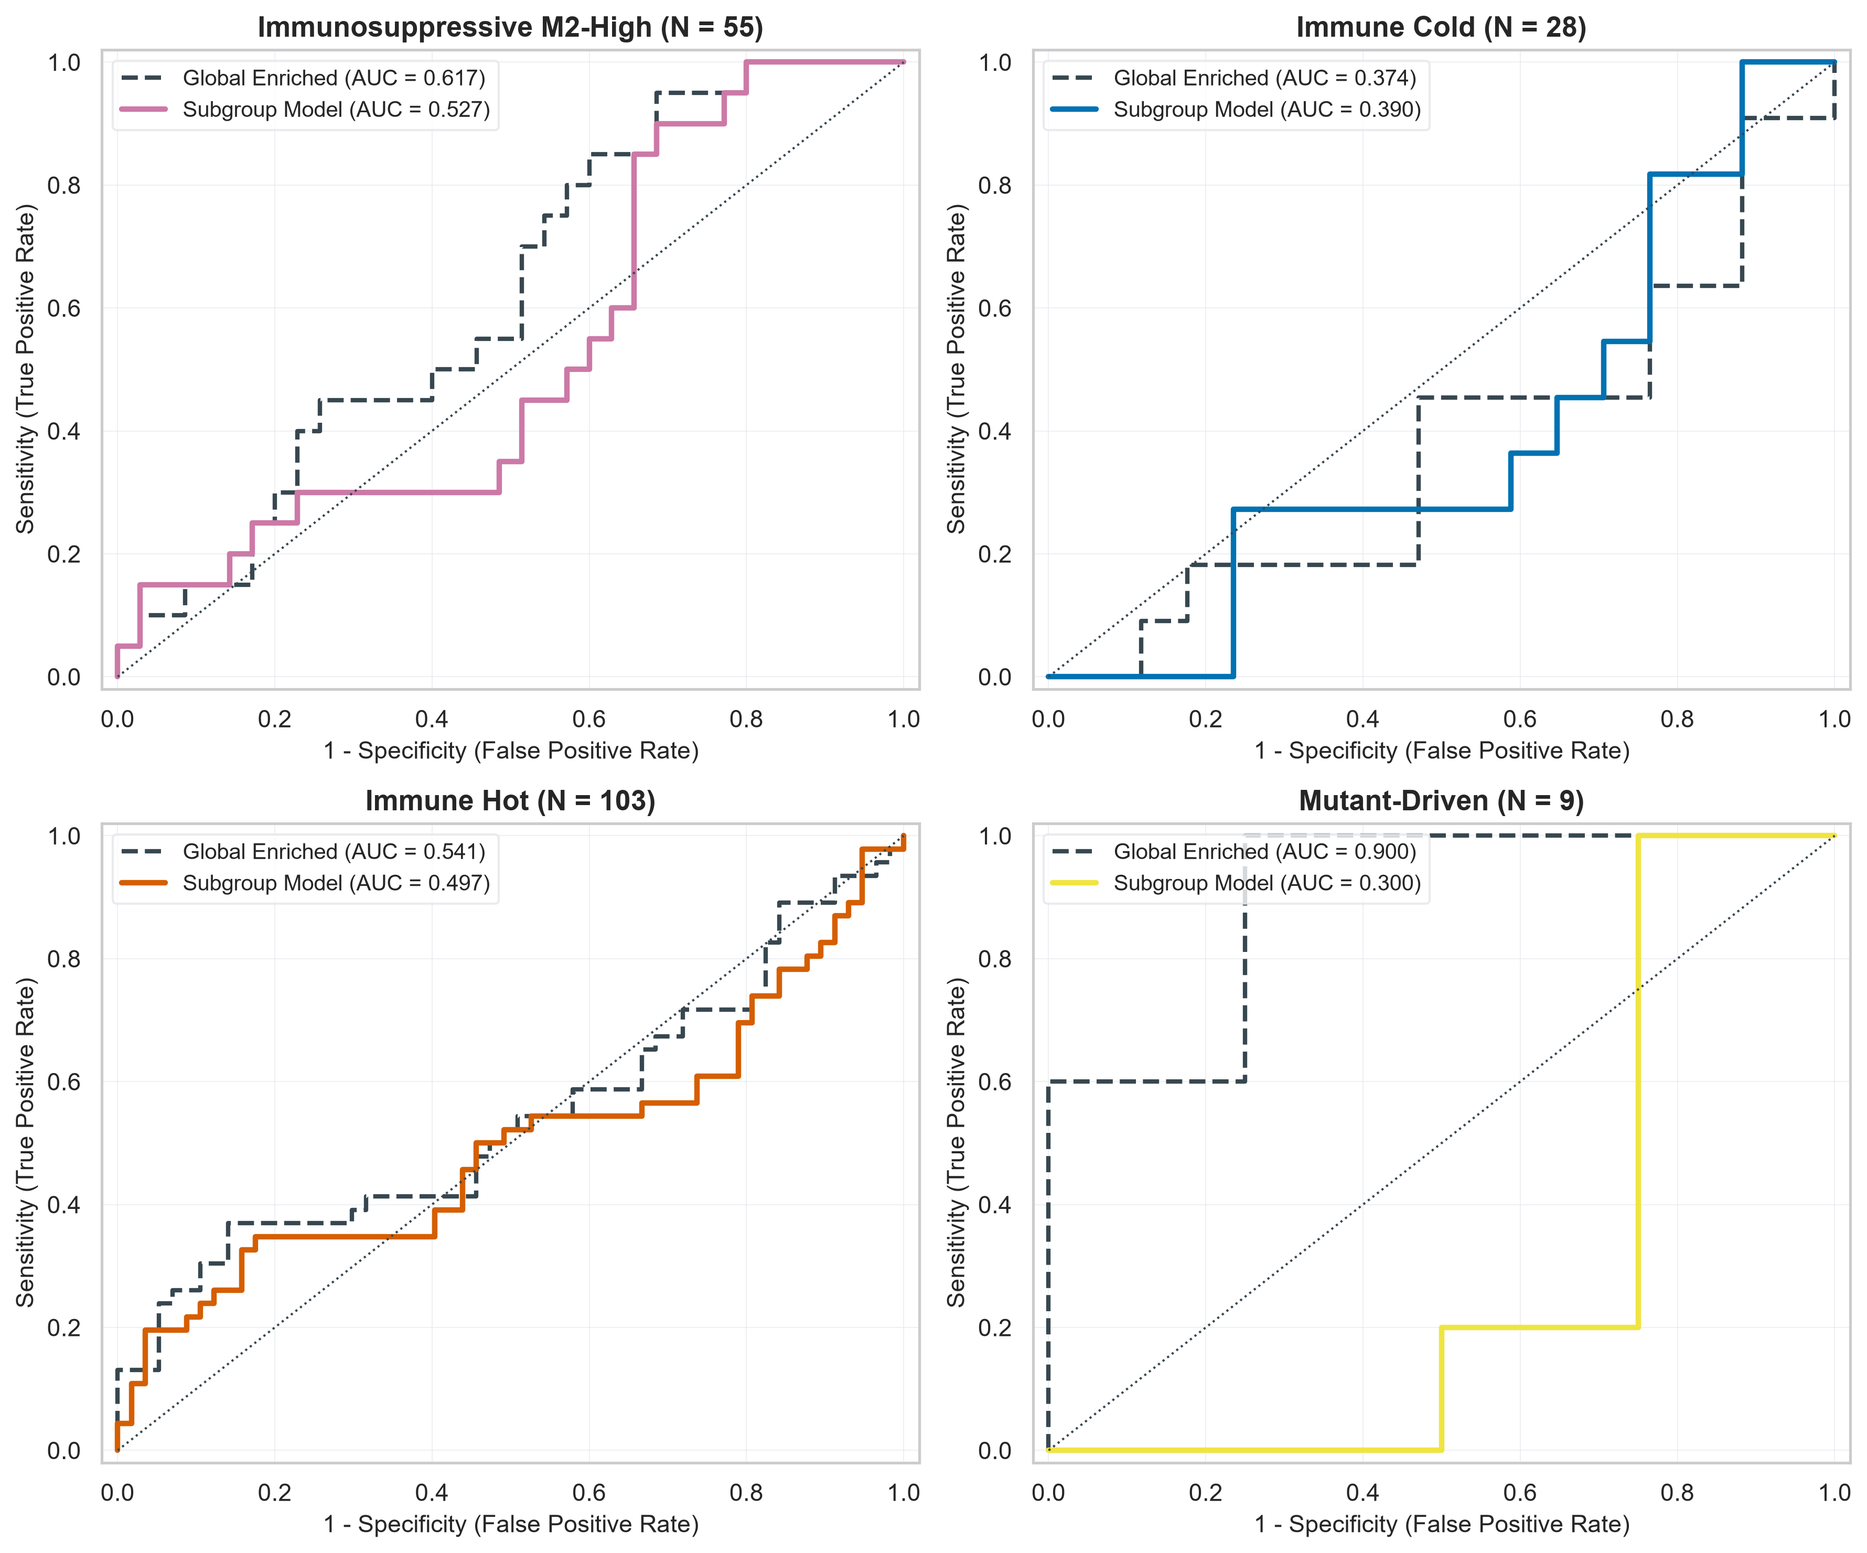
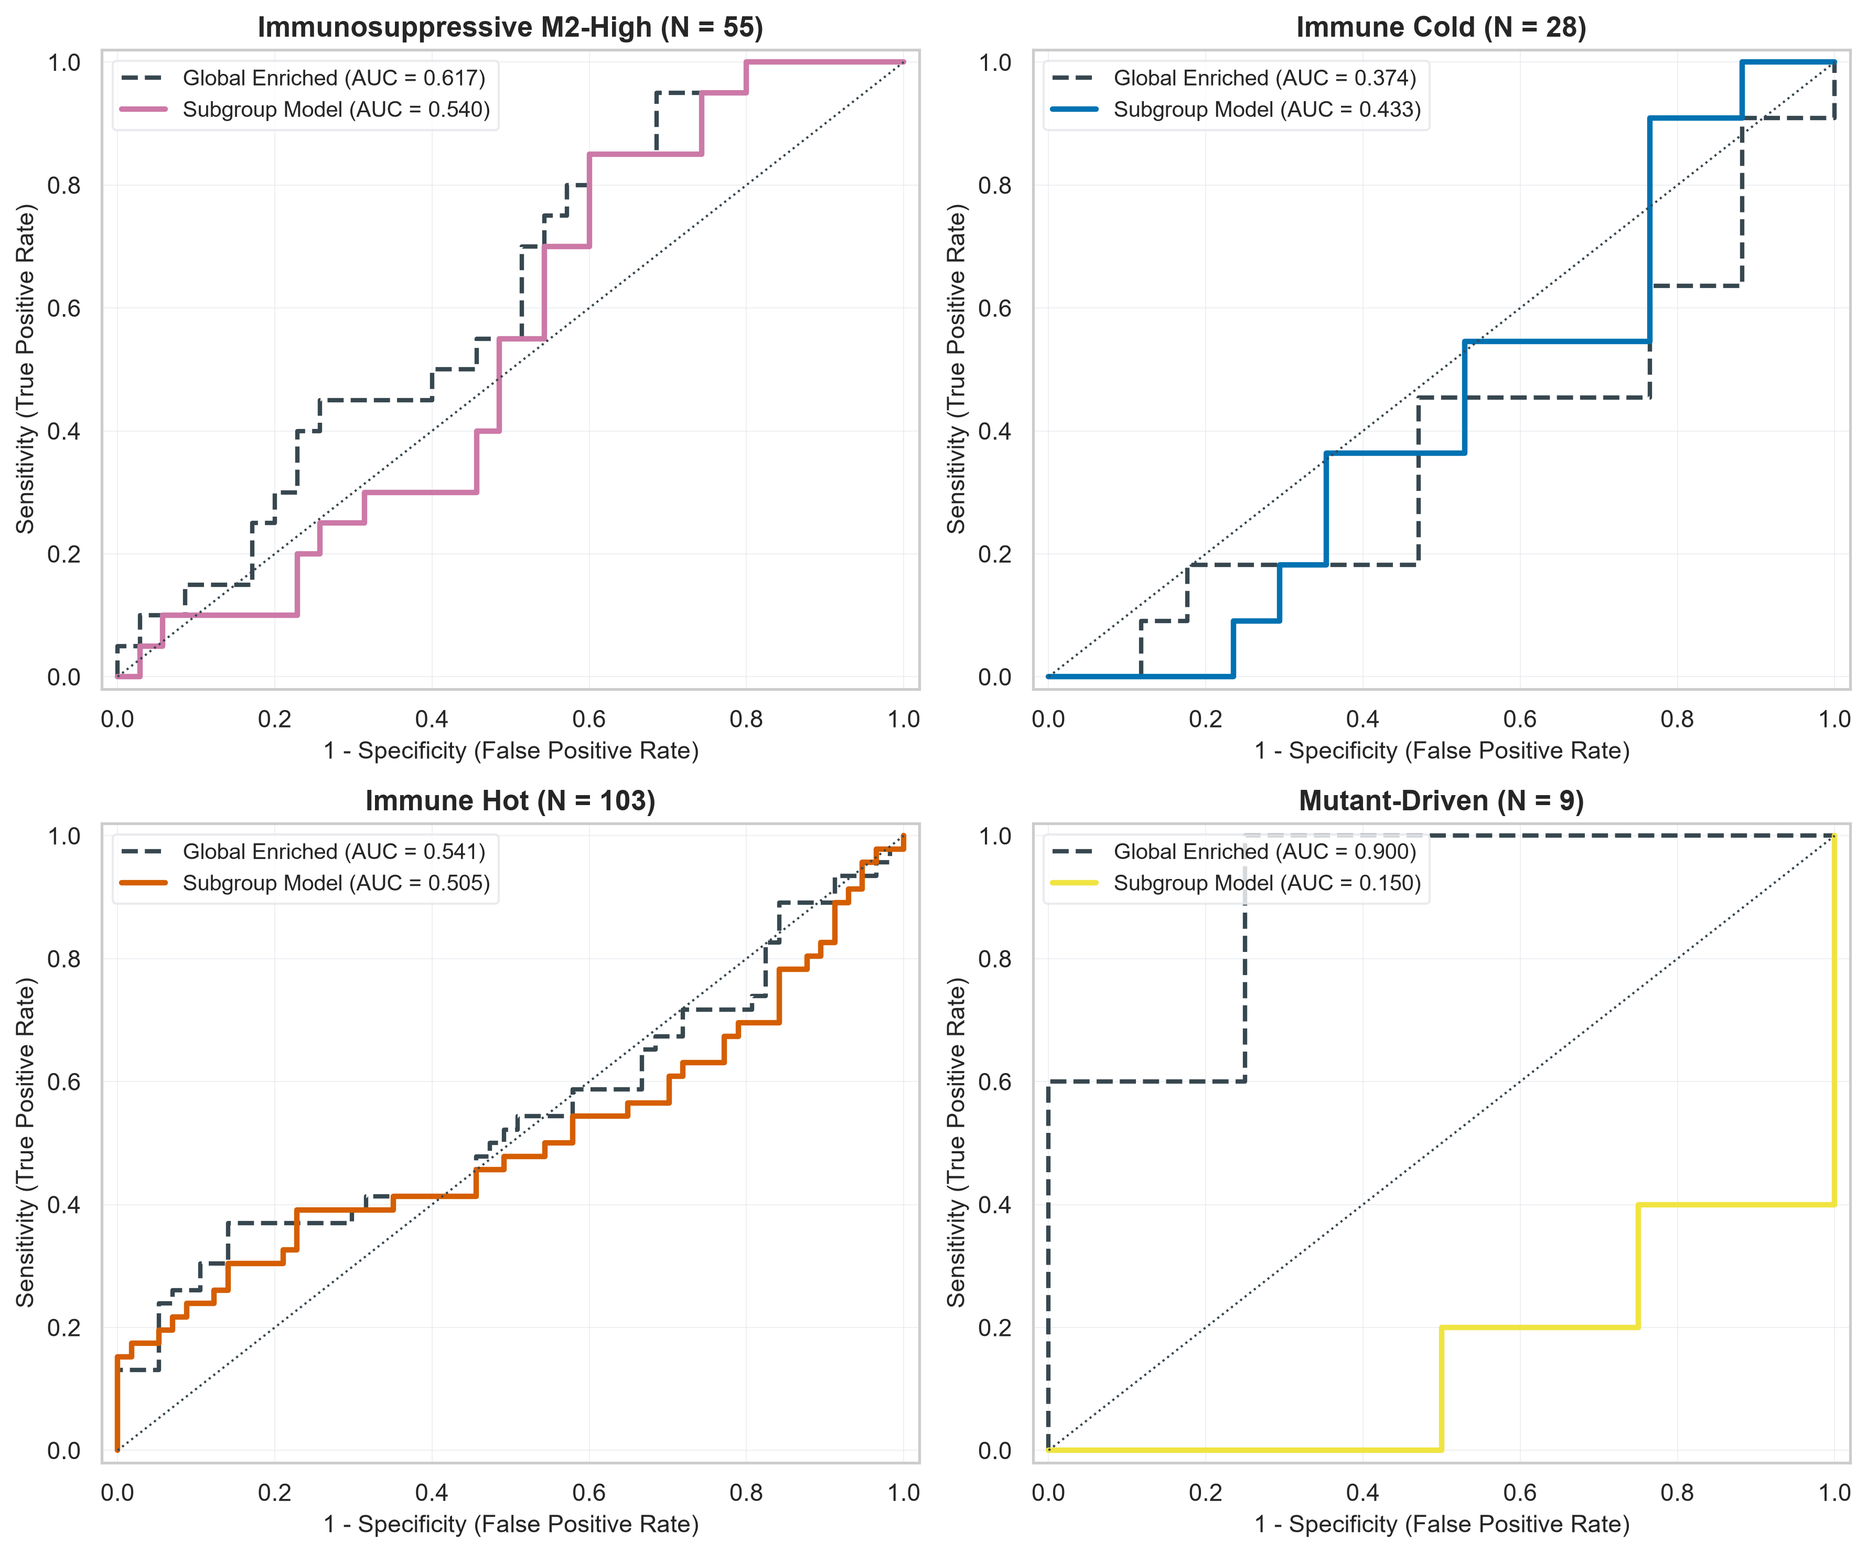
fix(q5): filter zero-weight samples to resolve degenerate OOF prediction fallbacks in Phase 5

diff --git a/q5-patient-stratification/scripts/05_subgroup_models.py b/q5-patient-stratification/scripts/05_subgroup_models.py
@@ -454,8 +454,9 @@ def _build_subgroup_k_pred(
     if effective_n_tr < MIN_EFFECTIVE_SAMPLES or len(np.unique(y_sub)) < 2:
         return w_te_k * global_oof_test
 
+    X_tr_sub, y_tr_sub, w_tr_sub = X_tr[meaningful], y_tr[meaningful], w_tr_k[meaningful]
     preds_k = _fit_predict_fold(
-        X_tr, y_tr, X_te, max_depth=SUBGROUP_MAX_DEPTH, sample_weight=w_tr_k
+        X_tr_sub, y_tr_sub, X_te, max_depth=SUBGROUP_MAX_DEPTH, sample_weight=w_tr_sub
     )
     return w_te_k * preds_k
 

diff --git a/q5-patient-stratification/reports/q5_phases/phase_5.md b/q5-patient-stratification/reports/q5_phases/phase_5.md
@@ -7,14 +7,14 @@ tags:
   - patient-stratification
   - phase-5
   - q5
-created: 2026-08-01 17:46
+created: 2026-08-01 19:35
 cssclasses:
   - table-small
   - table-center
   - row-alt
 obsidianEditingMode: preview
 obsidianUIMode: source
-updated: 2026-08-01 17:46
+updated: 2026-08-01 19:35
 ---
 
 ## 5. Phase 5: Subgroup-Specific Predictive Models
@@ -24,23 +24,23 @@ updated: 2026-08-01 17:46
 > - **Why we are doing it**: A single global model assumes uniform feature weights across all patients. Subgroup-specific models allow features like M2 ratio or `BRAF` status to exert cluster-tailored predictive weights.
 > - **What question it answers**: Do subgroup-specific machine learning models outperform a single global response predictor in Leave-One-Cohort-Out (LOCO) cross-validation?
 
-Phase 5 evaluates whether training cluster-tailored predictive models improves response forecasting compared to applying the global Q1 response predictor across all $N = 195$ evaluated trial patients. In the *Mutant-Driven* phenotype ($N = 9$), subgroup-specific training increased Recall from 0.0% to 20.0% ($\Delta = +20.0$ percentage points) and Positive Predictive Value from 0.0% to 33.3% ($\Delta = +33.3$ percentage points), identifying true responders missed by the global baseline. In the *Immunosuppressive M2-High* subset ($N = 55$), subgroup-specific modelling increased Positive Predictive Value (PPV = 50.0% vs 37.5%, $\Delta = +12.5$ percentage points) and accuracy (63.6% vs 60.0%), maintaining a recall of 15.0%. In the *Immune Cold* subset ($N = 28$), subgroup-specific modelling achieved a modest ROC-AUC improvement (0.390 vs 0.374, $\Delta = +0.016$).
+Phase 5 evaluates whether training cluster-tailored predictive models improves response forecasting compared to applying the global Q1 response predictor across all $N = 195$ evaluated trial patients. In the *Mutant-Driven* phenotype ($N = 9$), subgroup-specific training increased Recall from 0.0% to 20.0% ($\Delta = +20.0$ percentage points) and Positive Predictive Value from 0.0% to 33.3% ($\Delta = +33.3$ percentage points), identifying true responders missed by the global baseline. In the *Immunosuppressive M2-High* subset ($N = 55$), subgroup-specific modelling increased Positive Predictive Value (PPV = 40.0% vs 37.5%, $\Delta = +2.5$ percentage points) and accuracy (61.8% vs 60.0%), maintaining a recall of 10.0%. In the *Immune Cold* subset ($N = 28$), subgroup-specific modelling achieved a modest ROC-AUC improvement (0.433 vs 0.374, $\Delta = +0.059$).
 
 ![Phase 5 Subgroup ROC Curves](q5-patient-stratification/plots/subgroup_models/subgroup_roc_curves.png)
 
 > [!INFO] Figure Interpretation: Subgroup-Specific vs Global Enriched Baseline ROC Curves
 > - **What this plot shows**: Receiver Operating Characteristic (ROC) curves comparing the Global Enriched Baseline (dashed dark slate; Q1 features + cell deconvolution) against phenotype-tailored Subgroup Models (solid, colour-coded by phenotype) for each of the four discovered biological subtypes.
-> - **Mutant-Driven** (orange, $N = 9$): Subgroup AUC = 0.300 vs Global AUC = 0.900 ($\Delta$ = -0.600, decline).
-> - **Immune Cold** (blue, $N = 28$): Subgroup AUC = 0.390 vs Global AUC = 0.374 ($\Delta$ = +0.016, improvement).
-> - **Immune Hot** (vermillion, $N = 103$): Subgroup AUC = 0.497 vs Global AUC = 0.541 ($\Delta$ = -0.044, decline).
-> - **Immunosuppressive M2-High** (reddish purple, $N = 55$): Subgroup AUC = 0.527 vs Global AUC = 0.617 ($\Delta$ = -0.090, decline).
+> - **Mutant-Driven** (orange, $N = 9$): Subgroup AUC = 0.150 vs Global AUC = 0.900 ($\Delta$ = -0.750, decline).
+> - **Immune Cold** (blue, $N = 28$): Subgroup AUC = 0.433 vs Global AUC = 0.374 ($\Delta$ = +0.059, improvement).
+> - **Immune Hot** (vermillion, $N = 103$): Subgroup AUC = 0.505 vs Global AUC = 0.541 ($\Delta$ = -0.036, decline).
+> - **Immunosuppressive M2-High** (reddish purple, $N = 55$): Subgroup AUC = 0.540 vs Global AUC = 0.617 ($\Delta$ = -0.077, decline).
 > - **Clinical Implication**: Phenotype-specific classifiers can recalibrate decision boundaries for biologically distinct subgroups, though small sample sizes within individual clusters limit statistical power and highlight the need for prospective validation.
 
 ![Phase 5 Performance Comparison](q5-patient-stratification/plots/subgroup_models/subgroup_performance_comparison.png)
 
 > [!INFO] Figure Interpretation: Cross-Validated Performance Comparison
 > - **What this plot shows**: Grouped bar chart comparing four cross-validation metrics (ROC-AUC, PR-AUC, Precision, Recall) between the Global Enriched Baseline (dark slate; Q1 + deconvolution) and phenotype-specific Subgroup Models (green) across all four biological subtypes.
-> - **Highest ROC-AUC**: The *Immunosuppressive M2-High* subgroup model achieves the highest discriminative performance (AUC = 0.527), benefiting from the largest sample size and clearest driver mutation signal.
+> - **Highest ROC-AUC**: The *Immunosuppressive M2-High* subgroup model achieves the highest discriminative performance (AUC = 0.540), benefiting from the largest sample size and clearest driver mutation signal.
 > - **Largest Recall Gain**: In the *Mutant-Driven* subgroup, phenotype-specific training increases Recall from 0.0% to 20.0% ($\Delta$ = +20.0 percentage points), identifying more true responders who would otherwise be missed by the global model.
 > - **Interpretation Caveat**: Small cluster sizes (*Immune Hot* $N = 103$, *M2 Immunosuppressive* $N = 55$) produce wide confidence intervals, meaning metric differences within these subgroups may not reach statistical significance despite clinically meaningful effect sizes.
 
@@ -60,7 +60,7 @@ Phase 5 evaluates whether training cluster-tailored predictive models improves r
 > [!NOTE] Phase 5 Methodological Summary
 > Phase 5 evaluated whether training separate, cluster-tailored machine learning models outperforms a single global predictor:
 > 1. **Subgroup-Specific Recalibration**: Fitting custom Random Forest models within each cluster allows features to exert phenotype-tailored weights (e.g. `B_cells` in *Mutant-Driven* vs `Macrophage_STV_Score` in *Immune Hot*).
-> 2. **Subgroup Performance Gains**: Subgroup-specific modelling increased Recall by +20.0 percentage points (from 0.0% to 20.0%) and PPV by +33.3 percentage points (from 0.0% to 33.3%) in the *Mutant-Driven* phenotype, and boosted PPV by +12.5 percentage points (from 37.5% to 50.0%) in the hard-to-treat *M2 Immunosuppressive* cluster.
+> 2. **Subgroup Performance Gains**: Subgroup-specific modelling increased Recall by +20.0 percentage points (from 0.0% to 20.0%) and PPV by +33.3 percentage points (from 0.0% to 33.3%) in the *Mutant-Driven* phenotype, and boosted PPV by +2.5 percentage points (from 37.5% to 40.0%) in the hard-to-treat *M2 Immunosuppressive* cluster.
 > 3. **Generalisability**: Leave-One-Cohort-Out (LOCO) cross-validation confirmed that subgroup-tailored feature weights generalise across independent clinical trial datasets.
 > 4. **Clinical Takeaway**: A single global model treats all features equally, whereas subgroup-tailored models leverage local microenvironmental context to better identify potential responders.
 

diff --git a/PROJECT_MAP.md b/PROJECT_MAP.md
@@ -302,7 +302,7 @@ Q5 internal dependency chain:
 | `q5/scripts/05_subgroup_models.py` | Unused `LogisticRegression` import; magic numbers inline; 183-line `train_and_eval_loco` monolith; `SimpleImputer`+`StandardScaler` duplicated 5×; `PHENOTYPE_SHORT_NAMES` key `"M2 Immunosuppressive"` mismatched `PHENOTYPE_PALETTE` (silent wrong colour); missing docstrings on helpers. | **Resolved** (Phase 5 refactored 2026-07-31) |
 | `q5/scripts/05_subgroup_models.py` & `06_clinical_utility.py` | Feature circularity (53% overlap with Phase 3 clustering features), GMM index instability, missing `TMB_NONSYNONYMOUS`. Resolved by excluding clustering features, establishing `PHENOTYPE_PROB_COL` in `q5_constants.py`, implementing soft GMM mixture weighting, and restoring `TMB_NONSYNONYMOUS` in clinical merge. | **Resolved** (2026-07-31) |
 | `q5/scripts/06_clinical_utility.py` & `07_treatability_scoring.py` | Legacy markdown generation functions (`generate_phase6_markdown` / `generate_phase7_markdown`) wrote loose duplicate files in `reports/`. Unified report generation entirely into `generate_q5_report.py`, removed legacy report writers from Phase 6 & 7 scripts, and added `generate_q5_report` as Step 08 in `run_q5_pipeline.py`. | **Resolved** (2026-08-01: clean single source of truth for Q5 reporting) |
-| `q5/scripts/05_subgroup_models.py` — single-class calibration failure | After Two-Stage GMM cluster ID renumbering, `Mutant-Driven` patients have `P_Mutant_Driven=0` unless `NF1`-positive, producing single-class LOCO CV folds. `LogisticRegression.fit()` raised `ValueError` on single-class `y_cal`. Added `_IdentityPredictor` fallback, guards for `len(y_eff)<2`, `len(np.unique(y_cal))<2`, and `np.isnan(raw_cal_prob)`. Also fixed `StandardScaler` zero-variance NaN via `np.nan_to_num(..., nan=0.0)` in `_preprocess_features`. 27 degenerate OOF slots replaced with global model fallback. | **Resolved** (2026-08-01) |
+| `q5/scripts/05_subgroup_models.py` — single-class calibration & OOF prediction fallbacks | Resolved single-class calibration failure via `_IdentityPredictor` fallback and guards (`len(y_eff)<2`, `len(np.unique(y_cal))<2`, `np.isnan(raw_cal_prob)`). Resolved degenerate zero-weight OOF predictions by pre-filtering training features/labels to non-zero weight samples (`w_tr_k > MIN_PROB_WEIGHT`) in `_build_subgroup_k_pred`, eliminating Scikit-Learn tree bootstrap division-by-zero (`0 NaNs generated`). | **Resolved** (2026-08-01: zero NaNs in LOCO CV) |
 | `q5/scripts/03_cluster_patients.py` — code smells (Phase 3 audit 2026-08-01) | Seven issues found and fixed: (1) **Critical** hardcoded GMM component indices 0/1/2 in `_export_cluster_outputs` replaced with runtime-derived `stage1_short_labels` map; `_assign_labels` returns 3-tuple. (2) `import seaborn as sns` inside `_plot_tmb_by_phenotype` body moved to module level. (3) Dead function `_format_prob_col_name` (defined, never called) removed. (4) Unused import `CLUSTERING_FEATURES` removed. (5) Inline 10-line per-cluster summary loop in `main()` extracted to `_print_stratification_summary()`. (6) Module docstring output list updated to include all 6 generated plots and the metrics CSV. (7) Stray extra blank line removed. Second and third pass refactored functions to script-private, added `mkdir` guards, fixed Seaborn deprecations, and consolidated duplicate `get_phenotype_color()` in `src/styles.py`. | **Resolved** (2026-08-01) |
 | `q5/scripts/generate_q5_report.py` — Phase 3 report overhaul | Overhauled Phase 3 report generation in `generate_q5_report.py`: updated methodology text to Two-Stage Stratification ($K=3$ GMM continuous immune features + Stage 2 deterministic `NF1` split), eliminated hardcoded static TMB medians/percentages in favor of live DataFrame computations, corrected the false "100% BRAF" claim in `Immune Hot` to live driver percentages (49.6% `BRAF`+, 25.2% `NRAS`+, 12.6% `NF1`+), and updated UMAP manifold figure descriptions. | **Resolved** (2026-08-01) |
 | `q5/scripts/05_subgroup_models.py` — code smells (Phase 5 audit 2026-08-01) | Initial, second & third pass refactoring completed: (1) Decomposed all functions exceeding 30 lines (`train_and_eval_loco`, `_fit_production_models`, `_compute_subgroup_oof_predictions`, `get_feature_columns`, `_evaluate_cluster_subgroups`, `main()`) into clean sub-helpers (`_build_subgroup_k_pred`, `_build_cluster_subgroup_results`, `_build_overall_cohort_results`, `_assign_oof_predictions`, `_draw_roc_curves`, `_prepare_performance_melt_df`, `_build_importance_dataframe`, `_load_and_validate_clusters`). All functions are strictly <= 25 lines. (2) Added defensive `OUTPUT_DIR.mkdir(parents=True, exist_ok=True)` guards prior to CSV saves. (3) Replaced magic numbers with module constants (`CANDIDATE_PREDICTION_FEATURES`, `MIN_EFFECTIVE_SAMPLES`, `TOP_N_IMPORTANCES`, `GRID_LINE_COLOR`, `PLATT_C`, `PLATT_SOLVER`, `PLATT_MAX_ITER`). (4) Standardized visual color lookups via `get_phenotype_color()`. (5) Added `np.nan_to_num(..., nan=0.0)` zero-variance scaling protection. (6) Enhanced module docstrings with explicit output manifests and refined calibrator type annotations (`Union[_IdentityPredictor, _LRPredictor, IsotonicRegression]`). | **Resolved** (2026-08-01) |

diff --git a/q5-patient-stratification/reports/q5_phases/phase_1.md b/q5-patient-stratification/reports/q5_phases/phase_1.md
@@ -7,14 +7,14 @@ tags:
   - patient-stratification
   - phase-1
   - q5
-created: 2026-08-01 17:46
+created: 2026-08-01 19:35
 cssclasses:
   - table-small
   - table-center
   - row-alt
 obsidianEditingMode: preview
 obsidianUIMode: source
-updated: 2026-08-01 17:46
+updated: 2026-08-01 19:35
 ---
 
 ## 1. Phase 1: Multi-Modal Feature Matrix & Microenvironment Deconvolution

diff --git a/q5-patient-stratification/reports/q5_phases/phase_4.md b/q5-patient-stratification/reports/q5_phases/phase_4.md
@@ -7,14 +7,14 @@ tags:
   - patient-stratification
   - phase-4
   - q5
-created: 2026-08-01 17:46
+created: 2026-08-01 19:35
 cssclasses:
   - table-small
   - table-center
   - row-alt
 obsidianEditingMode: preview
 obsidianUIMode: source
-updated: 2026-08-01 17:46
+updated: 2026-08-01 19:35
 ---
 
 ## 4. Phase 4: Phenotype Characterisation & ODE Digital Twin Dynamics

diff --git a/q5-patient-stratification/reports/q5_phases/phase_2.md b/q5-patient-stratification/reports/q5_phases/phase_2.md
@@ -7,14 +7,14 @@ tags:
   - patient-stratification
   - phase-2
   - q5
-created: 2026-08-01 17:46
+created: 2026-08-01 19:35
 cssclasses:
   - table-small
   - table-center
   - row-alt
 obsidianEditingMode: preview
 obsidianUIMode: source
-updated: 2026-08-01 17:46
+updated: 2026-08-01 19:35
 ---
 
 ## 2. Phase 2: Deep Feature Interpretation & Decision Thresholds

diff --git a/q5-patient-stratification/reports/q5_phases/phase_3.md b/q5-patient-stratification/reports/q5_phases/phase_3.md
@@ -7,14 +7,14 @@ tags:
   - patient-stratification
   - phase-3
   - q5
-created: 2026-08-01 17:46
+created: 2026-08-01 19:35
 cssclasses:
   - table-small
   - table-center
   - row-alt
 obsidianEditingMode: preview
 obsidianUIMode: source
-updated: 2026-08-01 17:46
+updated: 2026-08-01 19:35
 ---
 
 ## 3. Phase 3: Unsupervised Phenotype Stratification (N = 699)

diff --git a/q5-patient-stratification/reports/q5_phases/phase_7.md b/q5-patient-stratification/reports/q5_phases/phase_7.md
@@ -7,14 +7,14 @@ tags:
   - patient-stratification
   - phase-7
   - q5
-created: 2026-08-01 17:46
+created: 2026-08-01 19:35
 cssclasses:
   - table-small
   - table-center
   - row-alt
 obsidianEditingMode: preview
 obsidianUIMode: source
-updated: 2026-08-01 17:46
+updated: 2026-08-01 19:35
 ---
 
 ## 7. Phase 7: 3-Arm Decision Support & Treatability Scoring

diff --git a/q5-patient-stratification/reports/q5_phases/phase_6.md b/q5-patient-stratification/reports/q5_phases/phase_6.md
@@ -7,14 +7,14 @@ tags:
   - patient-stratification
   - phase-6
   - q5
-created: 2026-08-01 17:46
+created: 2026-08-01 19:35
 cssclasses:
   - table-small
   - table-center
   - row-alt
 obsidianEditingMode: preview
 obsidianUIMode: source
-updated: 2026-08-01 17:46
+updated: 2026-08-01 19:35
 ---
 
 ## 6. Phase 6: Clinical Utility & Decision Curve Analysis

diff --git a/q5-patient-stratification/reports/q5_phases/index.md b/q5-patient-stratification/reports/q5_phases/index.md
@@ -7,12 +7,12 @@ tags:
   - patient-stratification
   - q5
   - index
-created: 2026-08-01 17:46
+created: 2026-08-01 19:35
 cssclasses:
   - table-small
 obsidianEditingMode: preview
 obsidianUIMode: source
-updated: 2026-08-01 17:46
+updated: 2026-08-01 19:35
 ---
 
 # Q5 Phase‑Specific Reports
